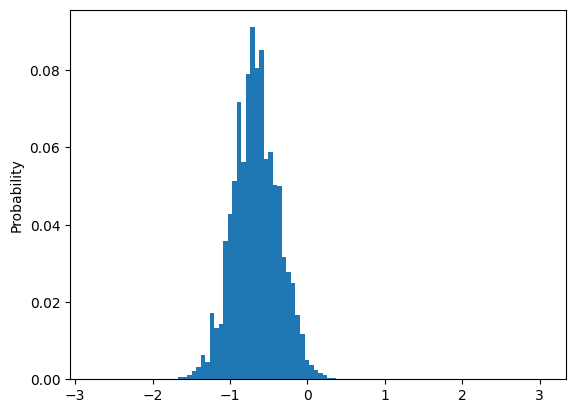
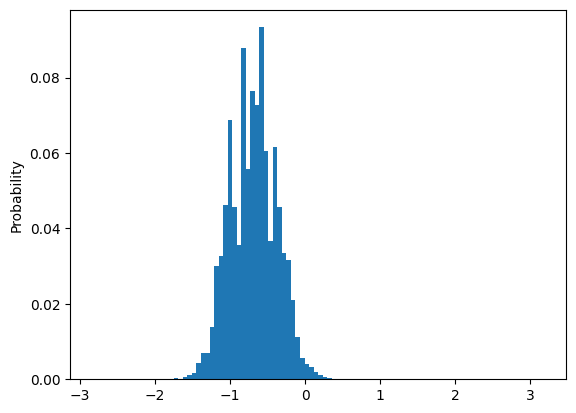
Add requirements

diff --git a/setup.py b/setup.py
@@ -4,6 +4,9 @@ def readme():
     with open('README.md') as f:
         return f.read()
 
+with open("requirements.txt") as f:
+    requirements = f.read().splitlines()
+
 setup(
     name='gorgo',
     version='0.1',
@@ -13,4 +16,5 @@ setup(
     test_suite='nose.collector',
     tests_require=['nose'],
     zip_safe=False,
+    install_requires=requirements,
 )

diff --git a/README.md b/README.md
@@ -9,10 +9,17 @@ of [WebPPL](https://dippl.org/).
 
 ## Getting started
 
-### Using a virtual environment
-- Set up a [virtual environment](https://docs.python.org/3/library/venv.html)
-- In the virtual environment, run: `pip install git+https://github.com/markkho/gorgo.git`
+In OSX, you can set up a virtual environment and install gorgo with dependencies:
+```
+$ python3 -m venv venv
+$ source venv/bin/activate
+(venv) $ pip install git+https://github.com/markkho/gorgo.git
+```
 
+To run the tests (this requires installing pytest):
+```
+(venv) $ pytest
+```
 
 ## Examples
 
@@ -38,7 +45,7 @@ model(0.5)
 
 
 
-<table><thead><tr><th></th><th>Element</th><th>Probability</th></tr></thead><tbody><tr><td><b>0</b></td><td>0</td><td>0.333</td></tr><tr><td><b>1</b></td><td>1</td><td>0.333</td></tr><tr><td><b>2</b></td><td>2</td><td>0.333</td></tr></tbody></table>
+<table><thead><tr><th></th><th>Element</th><th>Probability</th></tr></thead><tbody><tr><td><b>0</b></td><td>2</td><td>0.333</td></tr><tr><td><b>1</b></td><td>1</td><td>0.333</td></tr><tr><td><b>2</b></td><td>0</td><td>0.333</td></tr></tbody></table>
 
 
 
@@ -97,6 +104,9 @@ res = geometric(.9)
 res.plot()
 ```
 
+    Matplotlib is building the font cache; this may take a moment.
+
+
 
 
 
@@ -106,7 +116,7 @@ res.plot()
 
 
     
-![png](README_files/README_9_1.png)
+![png](README_files/README_9_2.png)
     
 
 
